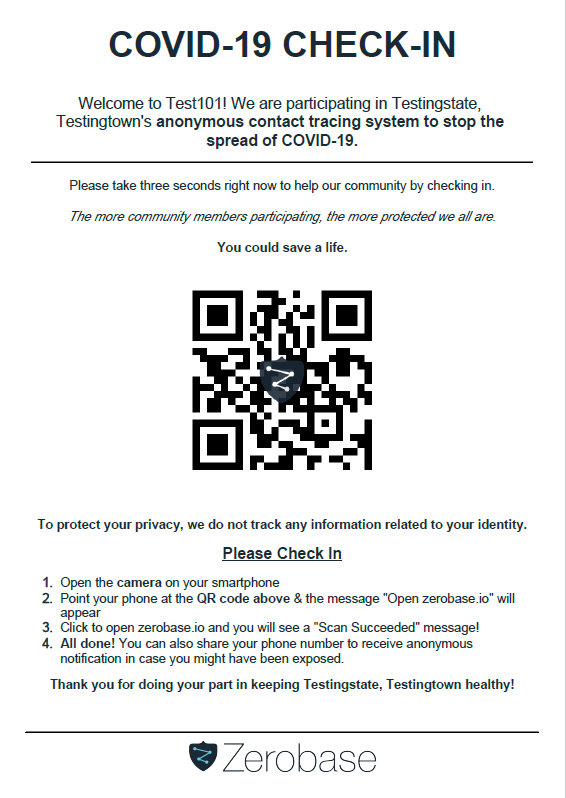
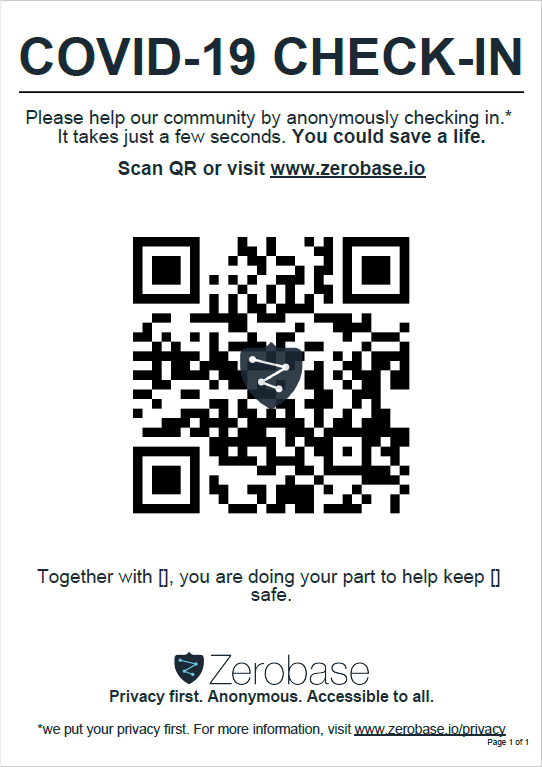
edited the paths referenced in the code and completed the qr pdf template

Changed region(s): [[0.0, 0.03, 1.0, 1.0]]

diff --git a/src/main/kotlin/io/zerobase/smarttracing/pdf/Documents.kt b/src/main/kotlin/io/zerobase/smarttracing/pdf/Documents.kt
@@ -7,8 +7,7 @@ import org.thymeleaf.TemplateEngine
 import org.thymeleaf.context.Context
 import org.w3c.tidy.Tidy
 import org.xhtmlrenderer.pdf.ITextRenderer
-import java.io.ByteArrayInputStream
-import java.io.ByteArrayOutputStream
+import java.io.*
 import java.net.URL
 import java.nio.charset.StandardCharsets
 import java.nio.file.Files
@@ -29,7 +28,8 @@ sealed class Document(private val templateEngine: TemplateEngine, private val xh
 
     fun render(): ByteArray {
         log.debug("rendering document: {}", this::class)
-        val html = templateEngine.process("${templateLocation}/main", context)
+        // template engine parses; don't need template location because that's already set in main with prefix
+        val html = templateEngine.process("/main", context)
         val xhtml = convertToXhtml(html)
         log.trace("rendered html. converting to pdf...")
         val renderer = ITextRenderer().apply {
@@ -39,6 +39,14 @@ sealed class Document(private val templateEngine: TemplateEngine, private val xh
         val byteOutputStream = ByteArrayOutputStream()
         byteOutputStream.use(renderer::createPDF)
         log.debug("pdf created successfully")
+
+
+        // And finally, we create the PDF:
+        val outputStream: OutputStream = FileOutputStream("pdfs/zerobase-qr.pdf")
+
+        renderer.createPDF(outputStream)
+        outputStream.close()
+
         return byteOutputStream.toByteArray()
     }
 
@@ -50,13 +58,22 @@ sealed class Document(private val templateEngine: TemplateEngine, private val xh
     }
 }
 
-@SuppressFBWarnings("EI_EXPOSE_REP2")
+@SuppressFBWarnings("EI_EXPOSE_REP2") // ask david about this value annotation
 class SiteOnboarding internal constructor(private val qrCode: ByteArray, templateEngine: TemplateEngine, xhtmlConverter: Tidy)
     : Document(templateEngine, xhtmlConverter) {
-    override val templateLocation: URL = Resources.getResource("qr-code")
+    override val templateLocation: URL = Resources.getResource("pdfs/qr-code/")
     override val context: Context by lazy {
+        log.debug("creating qr code file")
         val tempPath = Files.createTempFile("zb-", ".png")
         Files.write(tempPath, qrCode)
-        Context(Locale.US, mapOf("qrCode" to tempPath.toString()))
+        log.debug("temp path: $tempPath")
+        log.debug("qrCode byte array: $qrCode")
+
+        // if we are referencing path from local drive, we'll need to adjust the path stored with the file:/// delimiter
+        // example: C:\Users\15108\AppData\Local\Temp\zb-3026035076189344872.png -> file:///C:/Users/15108/AppData/Local/Temp/zb-...png
+        // converting the tempPath to URI
+        val tempPathCrossPlatform = tempPath.toUri()
+        log.debug("tempPath uri$tempPathCrossPlatform")
+        Context(Locale.US, mapOf("qrCode" to tempPathCrossPlatform.toString()))
     }
 }

diff --git a/src/main/resources/pdfs/qr-code/css/style.css b/src/main/resources/pdfs/qr-code/css/style.css
@@ -1,22 +1,14 @@
 body {
-    font-family: sans-serif;
+    font-family: "Helvetica Neue", Helvetica, Arial, sans-serif;
     font-size: 12px;
     text-align: center;
     outline: 100px solid #1C6EA4;
     outline-offset: -18px;
     color: #1b2935;
 }
-h1 {
-    font-family: "Helvetica Neue", Helvetica, Arial, sans-serif;
-    font-size: 50px;
-    font-style: normal;
-    font-variant: normal;
-    font-weight: 700;
-    line-height: 45px;
-}
 h2 {
     font-family: "Helvetica Neue", Helvetica, Arial, sans-serif;
-    font-size: 22px;
+    font-size: 28px;
     font-style: normal;
     font-variant: normal;
     font-weight: 200;
@@ -33,7 +25,7 @@ h3 {
 }
 p {
     font-family: "Helvetica Neue", Helvetica, Arial, sans-serif;
-    font-size: 18px;
+    font-size: 20px;
     font-style: normal;
     font-variant: normal;
     font-weight: 400;
@@ -69,7 +61,7 @@ ol {
     @bottom-left {
         content: element(footer);
         vertical-align: top;
-        padding-top: 10px;
+        padding-top: 0px;
     }
 
     @top-right {
@@ -79,15 +71,21 @@ ol {
     }
 
     margin-top: 3.3cm;
-    margin-left: 1cm;
-    margin-right: 1cm;
-    margin-bottom: 3.3cm;
+    margin-left: 0.5cm;
+    margin-right: 0.5cm;
+    margin-bottom: 5cm;
 
     size: A4 portrait;
 }
 
 div.header {
     position: running(header);
+    font-family: "Helvetica Neue", Helvetica, Arial, sans-serif;
+    font-size: 38px;
+    font-style: normal;
+    font-variant: normal;
+    font-weight: 700;
+    line-height: 45px;
 }
 
 div.center {
@@ -100,6 +98,7 @@ div.footer {
     display: block;
     margin-top: 0.5cm;
     position: running(footer);
+
 }
 
 #pagenumber:before {
@@ -119,7 +118,7 @@ div.footer {
 }
 
 .logo {
-    width: 200px;
+    width: 300px;
 }
 
 .footer {
@@ -165,7 +164,7 @@ hr {
 }
 
 .next-page {
-    page-break-before: always
+    page-break-before: always;
 }
 
 .qr-code {
@@ -173,4 +172,8 @@ hr {
   margin-left: auto;
   margin-right: auto;
   width: 70%;
+}
+
+.tag-line {
+  font-size: 23px;
 }

diff --git a/src/main/kotlin/io/zerobase/smarttracing/Main.kt b/src/main/kotlin/io/zerobase/smarttracing/Main.kt
@@ -17,6 +17,7 @@ import io.dropwizard.configuration.SubstitutingSourceProvider
 import io.dropwizard.setup.Bootstrap
 import io.dropwizard.setup.Environment
 import io.zerobase.smarttracing.config.GraphDatabaseFactory
+import io.zerobase.smarttracing.models.ScannableId
 import io.zerobase.smarttracing.notifications.AmazonEmailSender
 import io.zerobase.smarttracing.notifications.NotificationFactory
 import io.zerobase.smarttracing.notifications.NotificationManager
@@ -31,6 +32,7 @@ import org.thymeleaf.templateresolver.ClassLoaderTemplateResolver
 import org.w3c.tidy.Tidy
 import software.amazon.awssdk.regions.Region
 import software.amazon.awssdk.services.ses.SesClient
+import java.lang.Exception
 import java.net.URI
 import java.nio.charset.StandardCharsets
 import java.time.Duration
@@ -62,6 +64,30 @@ data class Config(
 
 fun main(vararg args: String) {
     Main().run(*args)
+    val qrCodeGenerator = QRCodeGenerator(
+        baseLink = UriBuilder.fromUri(URI.create("https://zerobase.io/")),
+        logo = Resources.getResource("qr/qr-code-logo.png")
+    )
+    val qrCodeId = ScannableId("qr01")
+    val resolver = ClassLoaderTemplateResolver().apply {
+        prefix = "/pdfs/qr-code/" // updating this to reference prefix when in jar in relation to where this code will be
+        suffix = ".html"
+        characterEncoding = StandardCharsets.UTF_8.displayName()
+    }
+    val templateEngine = TemplateEngine().apply {
+        templateResolvers = setOf(resolver)
+    }
+    val documentFactory = DocumentFactory(templateEngine, Tidy().apply {
+        inputEncoding = StandardCharsets.UTF_8.displayName()
+        outputEncoding = StandardCharsets.UTF_8.displayName()
+        xhtml = true
+    })
+    try{
+        qrCodeGenerator.generate(qrCodeId.value).let(documentFactory::siteOnboarding).render()
+    } catch (e: Exception) {
+        throw Exception(e)
+    }
+
 }
 
 class Main : Application<Config>() {

diff --git a/src/main/resources/pdfs/qr-code/main.html b/src/main/resources/pdfs/qr-code/main.html
@@ -10,37 +10,14 @@
         <div class='header' th:include="header::header"></div>
 
         <div th:include="letterhead::letterhead"></div>
+        <h2><strong>Scan QR or visit <u>www.zerobase.io</u></strong></h2>
 
-        <p>Please take three seconds right now to help our community by checking in.
+        <br>
 
-        </p>
-        <p>
-            <em>
-                The more community members participating, the more protected we all are.
-            </em>
-        </p>
-        <p> <strong>You could save a life.</strong>
-        </p>
+        <img class="qr-code" th:src="${qrCode}" alt="logo">
+        <h2> Together with [], you are doing your part to help keep [] safe.</h2>
 
-        <img class="qr-code" th:attr="src='${data.getQrCode()}'" alt="logo">
-
-        <h3> To protect your privacy, we do not track any information related to your identity. </h3>
-
-        <h2><u><strong>Please Check In</strong></u></h2>
-        <ol>
-            <li>Open the <strong> camera </strong>on your smartphone</li>
-            <li>Point your phone at the <strong>QR code above</strong> & the message "Open zerobase.io" will appear</li>
-            <li>Click to open zerobase.io and you will see a "Scan Succeeded" message!</li>
-            <li><strong>All done!</strong> You can also share your phone number to receive anonymous notification in case you might have been exposed. </li>
-        </ol>
-
-        <h3> Thank you for doing your part in keeping [[${data.getTown()}]], [[${data.getState()}]] healthy! </h3>
-        </div>
-
-        <div class="next-page">
-
-
-        </div>
+        <div class="next-page"> </div>
 
         <div class='footer' th:include="footer::footer"></div>
 

diff --git a/src/main/kotlin/io/zerobase/smarttracing/notifications/Notifications.kt b/src/main/kotlin/io/zerobase/smarttracing/notifications/Notifications.kt
@@ -1,5 +1,6 @@
 package io.zerobase.smarttracing.notifications
 
+import com.google.common.io.Resources
 import com.google.common.net.MediaType
 import edu.umd.cs.findbugs.annotations.SuppressFBWarnings
 import io.zerobase.smarttracing.models.ContactInfo
@@ -7,9 +8,16 @@ import io.zerobase.smarttracing.models.Organization
 import io.zerobase.smarttracing.models.ScannableId
 import io.zerobase.smarttracing.pdf.DocumentFactory
 import io.zerobase.smarttracing.qr.QRCodeGenerator
+import org.apache.http.util.Args
 import org.thymeleaf.TemplateEngine
 import org.thymeleaf.context.Context
+import org.thymeleaf.templateresolver.ClassLoaderTemplateResolver
+import org.w3c.tidy.Tidy
+import java.lang.Exception
+import java.net.URI
+import java.nio.charset.StandardCharsets
 import java.util.*
+import javax.ws.rs.core.UriBuilder
 
 data class NotificationRequest(val notification: Notification, val contactInfo: ContactInfo)
 
@@ -40,8 +48,8 @@ class SimpleBusinessOnboarding(
     private val templateEngine: TemplateEngine,
     private val documentFactory: DocumentFactory,
     private val qrCodeGenerator: QRCodeGenerator,
-    val organization: Organization,
-    val qrCodeId: ScannableId
+    private val organization: Organization,
+    private val qrCodeId: ScannableId
 ) : Notification() {
     override val subject = "Welcome to Zerobase!"
     override val attachments: List<Attachment> by lazy {
@@ -67,4 +75,7 @@ class SimpleBusinessOnboarding(
             }
         }
     }
+
+
+
 }

diff --git a/src/main/resources/pdfs/qr-code/footer.html b/src/main/resources/pdfs/qr-code/footer.html
@@ -1,12 +1,12 @@
 <div th:fragment="footer">
-    <hr>
     <div>
         <div>
             <img class="logo" src="img/logo.png" alt="logo">
         </div>
-        <div>
+        <div class="tag-line">
             <strong>Privacy first. Anonymous. Accessible to all.</strong>
         </div>
+        <p>*we put your privacy first. For more information, visit <u>www.zerobase.io/privacy</u></p>
         <div class="page-count">
             Page <span id="pagenumber"></span> of <span id="pagecount"></span>
         </div>

diff --git a/src/main/resources/pdfs/qr-code/letterhead.html b/src/main/resources/pdfs/qr-code/letterhead.html
@@ -1,5 +1,4 @@
 <div th:fragment="letterhead">
-    <h2> Welcome to [[${data.getBusinessname()}]]! We are participating in [[${data.getTown()}]], [[${data.getState()}]]'s
-        <strong>anonymous contact tracing system to stop the spread of COVID-19.</strong></h2>
     <hr>
+    <h2>Please help our community by anonymously checking in.* It takes just a few seconds. <strong>You could save a life.</strong></h2>
 </div>
